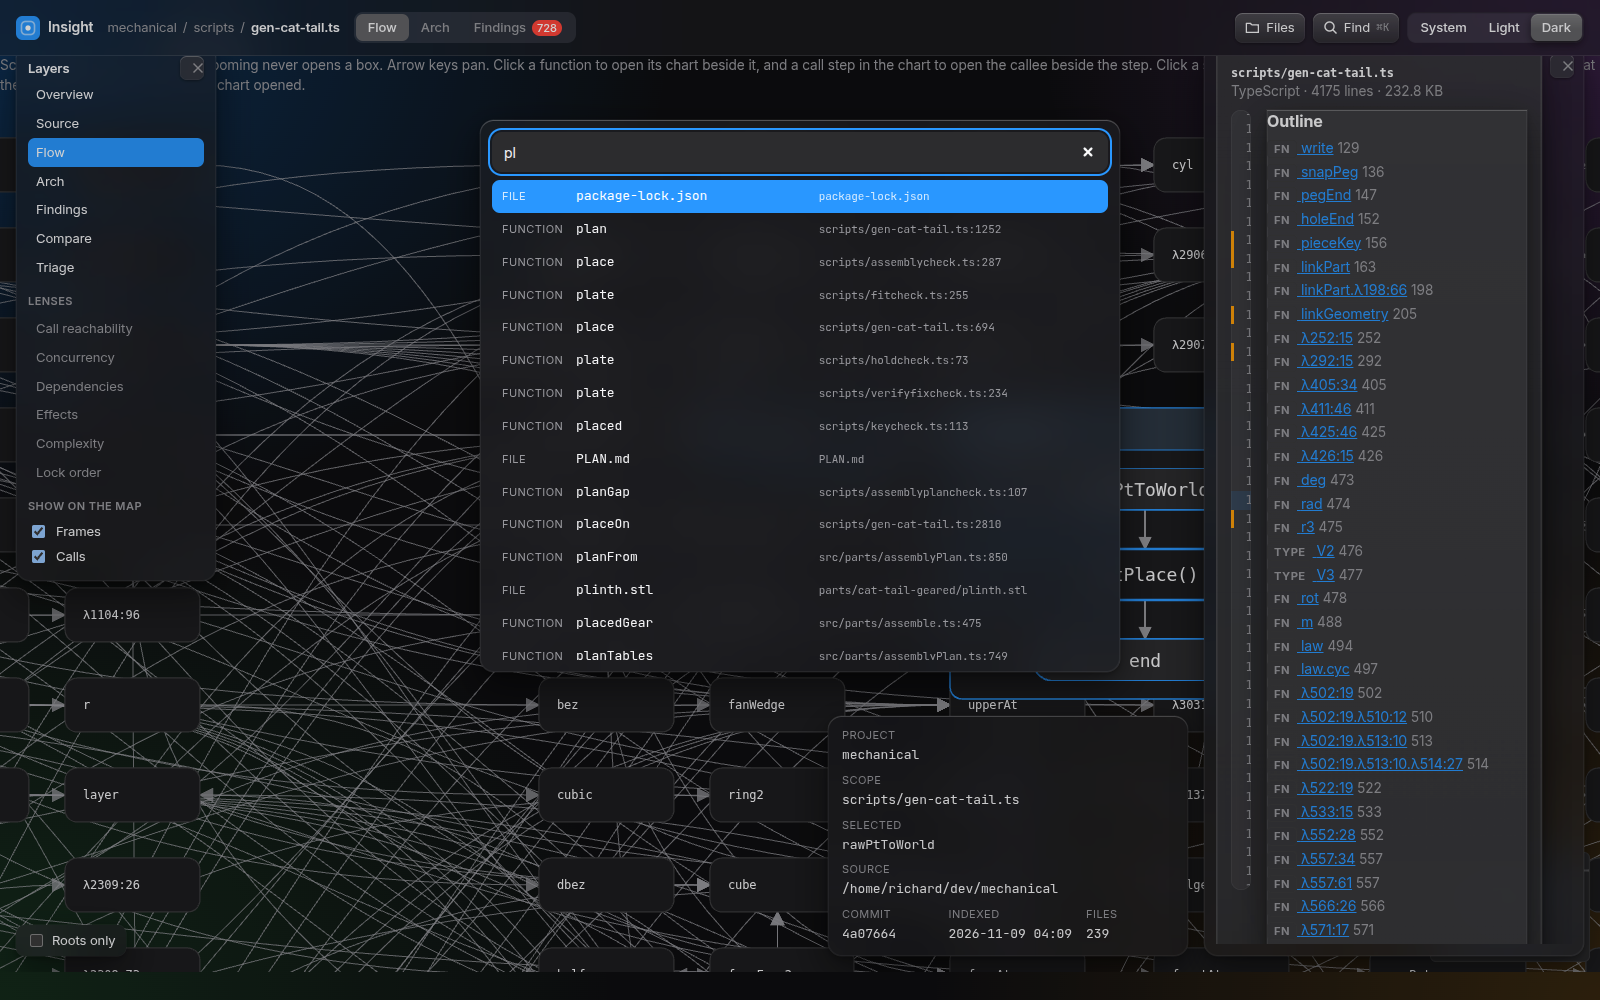
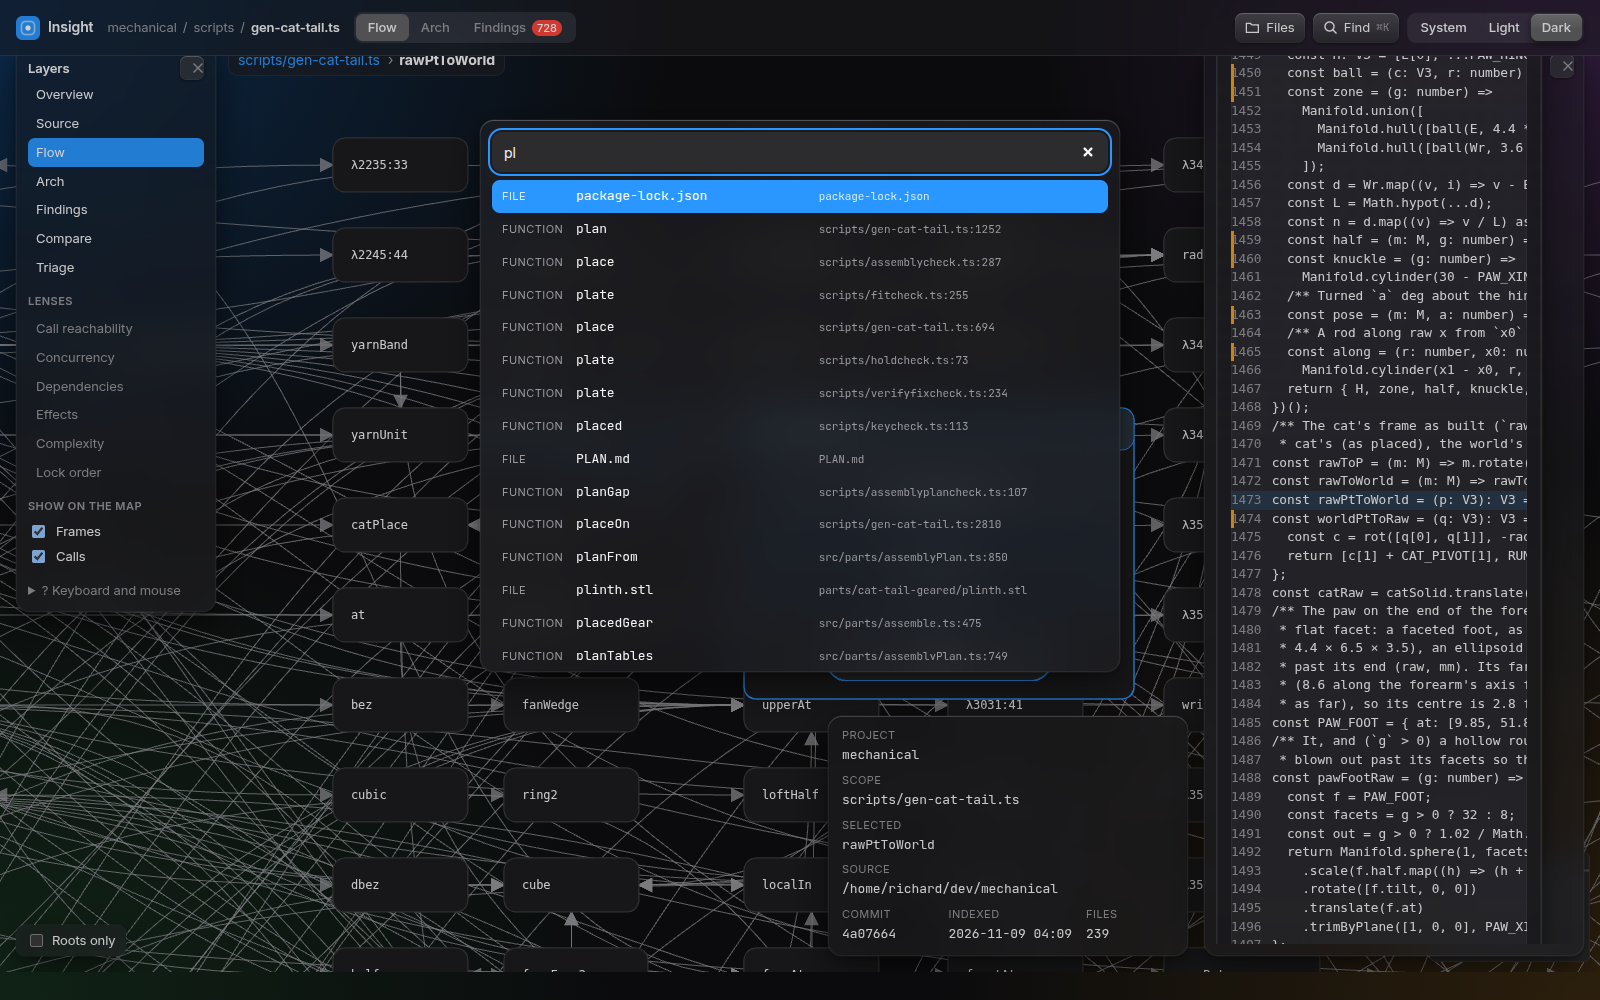
Sheet phase 2 fixes: key hints in Layers, side-panel gutter and outline, map inset
- Flow canvas no longer shows the help paragraph; the key hints move into a
  "? Keyboard and mouse" section in the Layers panel. Breadcrumb moves beside
  Layers on desktop and is hidden on phones.
- Side panel file view: gutter width follows the line-number digit count; the
  Outline is a collapsible section above the code, legible in both themes.
- ZoomMap takes an inset: while the side panel is open on wide screens, fits and
  reveals keep charts left of the panel, refitting when the panel opens.

Claude-Session: https://claude.ai/code/session_011RUAPQ22q16EWxuX6czdxj

diff --git a/apps/web/src/components/zoom/ZoomMap.tsx b/apps/web/src/components/zoom/ZoomMap.tsx
@@ -76,6 +76,10 @@ interface Props {
   onSelect?: (sel: MapSelection | undefined) => void;
   /** Reports the build the map is showing (its focus), or undefined before the first one. */
   onFocus?: (build: MapBuild | undefined) => void;
+  /** Whether the map shows its key hints under the stage. The sheet keeps them in the layers panel instead. */
+  hint?: boolean;
+  /** Room the map gives up on the right, in px, such as a side panel over the stage. Fits and reveals keep clear of it. */
+  inset?: number;
 }
 
 /** What an expansion needs to draw its chart: the project, the scope its links resolve in, and the flow store. */
@@ -102,7 +106,7 @@ interface OffMap {
  * The execution map: one camera over a scope's scene. Each node is a focus of the source; the map's items and edges
  * are named by node id, so a click or key that names a node is turned into a focus by the source first (`focusOf`).
  */
-export function ZoomMap({ id, source, scope, fn, detail, charts, onSelect, onFocus }: Props) {
+export function ZoomMap({ id, source, scope, fn, detail, charts, onSelect, onFocus, hint = true, inset = 0 }: Props) {
   /** The selection: the focus the breadcrumb, the detail panel and the URL show. Only explicit actions change it. */
   const [build, setBuild] = useState<MapBuild>();
   /** The map as drawn: the selection's build. Only a click or a key changes it; gestures move the camera alone. */
@@ -123,6 +127,8 @@ export function ZoomMap({ id, source, scope, fn, detail, charts, onSelect, onFoc
   const stageRef = useRef<HTMLDivElement>(null);
   /** The stage's size at the last resize, so a resize that changes nothing does not refit the camera. */
   const lastSizeRef = useRef<{ width: number; height: number } | undefined>(undefined);
+  /** Refits the selected focus when the usable size changed since the last refit. Set by the stage's effect. */
+  const refitRef = useRef<(() => void) | undefined>(undefined);
   const svgRef = useRef<SVGSVGElement>(null);
   const worldRef = useRef<SVGGElement>(null);
   const miniRef = useRef<SVGSVGElement>(null);
@@ -141,7 +147,12 @@ export function ZoomMap({ id, source, scope, fn, detail, charts, onSelect, onFoc
   const arrowId = `zm-arrow-${useId().replace(/[^a-zA-Z0-9]/g, "")}`;
   const hintId = useId();
 
-  const sizeOf = () => ({ width: stageRef.current?.clientWidth ?? 0, height: stageRef.current?.clientHeight ?? 0 });
+  /** The inset in use. A ref, so the size readers below see it without a new closure. */
+  const insetRef = useRef(inset);
+  const sizeOf = () => ({
+    width: Math.max(1, (stageRef.current?.clientWidth ?? 0) - insetRef.current),
+    height: stageRef.current?.clientHeight ?? 0,
+  });
   /** The stage's room above the minimap: where a fit or a reveal may put things. */
   const roomOf = () => {
     const s = sizeOf();
@@ -451,7 +462,7 @@ export function ZoomMap({ id, source, scope, fn, detail, charts, onSelect, onFoc
     // A resize that changes the stage's size refits a selected focus, so the panel opening or a window change keeps it
     // in view above the minimap. Culling alone is not enough for that.
     lastSizeRef.current = sizeOf();
-    const ro = new ResizeObserver(() => {
+    refitRef.current = () => {
       const size = sizeOf();
       const last = lastSizeRef.current;
       lastSizeRef.current = size;
@@ -464,9 +475,11 @@ export function ZoomMap({ id, source, scope, fn, detail, charts, onSelect, onFoc
         const target = fit === undefined ? undefined : newest === undefined ? fit : revealOf(fit, newest);
         if (target !== undefined) moveTo(target, false);
       }
-    });
+    };
+    const ro = new ResizeObserver(() => refitRef.current?.());
     ro.observe(stage);
     return () => {
+      refitRef.current = undefined;
       ro.disconnect();
       sel.on(".zoom", null);
       zoomRef.current = undefined;
@@ -475,6 +488,12 @@ export function ZoomMap({ id, source, scope, fn, detail, charts, onSelect, onFoc
     // The handlers read only refs and the source, so the ones from this render stay correct for the life of the effect.
     // eslint-disable-next-line react-hooks/exhaustive-deps
   }, [source, id]);
+
+  // A panel opening or closing over the stage changes the usable width without resizing it: refit as a resize would.
+  useEffect(() => {
+    insetRef.current = inset;
+    refitRef.current?.();
+  }, [inset]);
 
   // The URL drives the focus. A change this map made itself is already the focus, so it is skipped.
   useEffect(() => {
@@ -645,7 +664,7 @@ export function ZoomMap({ id, source, scope, fn, detail, charts, onSelect, onFoc
         tabIndex={0}
         role="application"
         aria-label="Execution map of the scope"
-        aria-describedby={hintId}
+        aria-describedby={hint ? hintId : undefined}
         onKeyDown={onKey}
       >
         <svg ref={svgRef} className="zm-svg" width="100%" height="100%">
@@ -754,11 +773,13 @@ export function ZoomMap({ id, source, scope, fn, detail, charts, onSelect, onFoc
           </svg>
         )}
       </div>
-      <p id={hintId} className="muted small zm-hint">
-        Scroll or press + and - to zoom; zooming never opens a box. Arrow keys pan. Click a function to open its chart beside
-        it, and a call step in the chart to open the callee beside the step. Click a step that is not a call to see its
-        source. Enter opens the item at the centre. Escape closes the last chart opened.
-      </p>
+      {hint && (
+        <p id={hintId} className="muted small zm-hint">
+          Scroll or press + and - to zoom; zooming never opens a box. Arrow keys pan. Click a function to open its chart beside
+          it, and a call step in the chart to open the callee beside the step. Click a step that is not a call to see its
+          source. Enter opens the item at the centre. Escape closes the last chart opened.
+        </p>
+      )}
       {build && detail?.(build, openNode)}
     </div>
   );

diff --git a/apps/web/src/styles.css b/apps/web/src/styles.css
@@ -161,7 +161,7 @@ table.grid td.break-any { overflow-wrap: anywhere; }
 pre.code { margin: 0; font-size: 0.8rem; overflow-x: auto; }
 pre.code > div { white-space: pre; }
 pre.code > div.hit { background: var(--code-hit); }
-pre.code .gutter { display: inline-block; width: 3.5em; color: var(--muted); text-align: right; margin-right: 0.8em; user-select: none; }
+pre.code .gutter { display: inline-block; flex: none; width: var(--gutter-ch, 4ch); color: var(--muted); text-align: right; margin-right: 0.8em; user-select: none; }
 .crumbs { margin-bottom: 4px; }
 select, textarea { font: inherit; padding: 6px 8px; border: 1px solid var(--line); border-radius: 6px; background: var(--bg); color: var(--fg); }
 textarea { min-height: 3.2em; width: 100%; box-sizing: border-box; resize: vertical; }
@@ -562,6 +562,20 @@ table.grid th { background: var(--faint); }
 .sh-side > .sh-close { position: absolute; top: 10px; right: 10px; z-index: 1; }
 .sh-side-body { flex: 1; min-height: 0; overflow: auto; padding-right: 30px; }
 .sh-side .sh-source { background: transparent; border: 0; padding: 0; margin: 0; }
+/* The outline sits above the code in the side panel as a collapsible section, never over it. */
+.sh-side .viewer-body { grid-template-columns: minmax(0, 1fr); gap: 10px; }
+.sh-side .outline { position: static; order: -1; max-height: 34vh; overflow: auto; padding: 8px 10px; border-radius: 12px; background: color-mix(in srgb, var(--graphite) 10%, transparent); }
+.sh-side .outline summary { cursor: pointer; font-size: var(--t-sm); font-weight: 600; }
+.sh-side .outline details[open] > summary { margin-bottom: 6px; }
+.sh-side .outline h3 { margin: 8px 0 4px; font-size: var(--t-xs); }
+.sh-side pre.code { color: var(--ink); }
+.sh-side .viewer-body pre.code { max-height: none; }
+.sh-side .viewer-head { margin-bottom: 6px; }
+.sh-keys { margin-top: 12px; font-size: var(--t-sm); }
+.sh-keys summary { cursor: pointer; color: var(--muted); }
+.sh-keys ul { margin: 6px 0 0; padding-left: 16px; display: grid; gap: 4px; color: var(--muted); }
+.sh-canvas .zm-crumbs { position: absolute; left: calc(var(--sh-gap) + 212px); top: var(--sh-gap); z-index: 6; padding: 6px 10px; border-radius: 10px; background: var(--glass-strong); box-shadow: var(--rim); }
+.sh-canvas .zm-crumbs ol { margin: 0; }
 .sh-slot { margin-top: 10px; }
 
 .sh-files { position: fixed; top: calc(var(--sh-top) + var(--sh-gap)); left: var(--sh-gap); bottom: var(--sh-gap); z-index: 50; width: min(360px, calc(100vw - 2 * var(--sh-gap))); display: flex; flex-direction: column; padding: 12px; }
@@ -587,6 +601,7 @@ table.grid th { background: var(--faint); }
   .sh-side.open { transform: none; }
   .sh-sheet[data-panel="open"] .sh-title { right: var(--sh-gap); }
   .sh-layers { width: 176px; }
+  .sh-canvas .zm-crumbs { display: none; }
 }
 @media (max-width: 520px) {
   :root { --sh-top: 96px; }

diff --git a/apps/web/src/components/FileViewer.tsx b/apps/web/src/components/FileViewer.tsx
@@ -1,4 +1,4 @@
-import { useEffect, useRef, useState } from "react";
+import { useEffect, useRef, useState, type CSSProperties } from "react";
 import { api, type FileView } from "../api";
 import { hrefFile } from "../router";
 import type { LineRange } from "../zoom/chart";
@@ -48,6 +48,8 @@ export function FileViewer({ id, path, line, range }: { id: string; path: string
 
   if (error) return <p className="error" role="alert">{error}</p>;
   if (!file) return <p className="muted">Loading</p>;
+  // The gutter fits the widest line number, so a 1000-line file shows all its digits.
+  const digits = String(file.lines.length).length;
   const flagged = new Map<number, string>();
   for (const f of file.findings) if (f.span) flagged.set(f.span.start[0] + 1, f.message);
   return (
@@ -61,7 +63,7 @@ export function FileViewer({ id, path, line, range }: { id: string; path: string
         </div>
       </header>
       <div className="viewer-body">
-        <pre className="code" data-testid="file-lines">
+        <pre className="code" data-testid="file-lines" style={{ "--gutter-ch": digits + 1 } as CSSProperties}>
           {file.lines.map((text, i) => {
             const n = i + 1;
             const note = flagged.get(n);
@@ -75,9 +77,10 @@ export function FileViewer({ id, path, line, range }: { id: string; path: string
         </pre>
         {(file.symbols.length > 0 || file.findings.length > 0) && (
           <aside className="outline" aria-label="Outline">
+            <details open>
+            <summary>Outline</summary>
             {file.symbols.length > 0 && (
               <>
-                <h3>Outline</h3>
                 <ul className="plain">
                   {file.symbols.map((s) => (
                     <li key={s.id}>
@@ -110,6 +113,7 @@ export function FileViewer({ id, path, line, range }: { id: string; path: string
                 </ul>
               </>
             )}
+            </details>
           </aside>
         )}
       </div>

diff --git a/apps/web/src/components/views/FlowView.tsx b/apps/web/src/components/views/FlowView.tsx
@@ -61,6 +61,9 @@ interface Props {
  * side panel shows the selected function's source and its exec panel (a function's trail, chart and call lists, or a
  * container's functions), and a file's source on the source tab. Below the sheet, a folder or project lists its files.
  */
+/** The width the side panel takes over the map, with its gap on each side. */
+const SIDE_INSET = 380 + 2 * 16;
+
 export function FlowView({ id, files, scope, fn, roots, line, layers, facts, emphasis, fileSource }: Props) {
   const store = useMemo(() => new ZoomStore(id), [id]);
   const exec = useMemo(() => new ExecStore(id, roots), [id, roots]);
@@ -82,6 +85,8 @@ export function FlowView({ id, files, scope, fn, roots, line, layers, facts, emp
   const dismissed = closed !== undefined && closed.at === at && closed.build === focus;
   const open = (fileSource || focusNested) && !dismissed;
   const selectedName = fn ? fn.slice(fn.indexOf("#") + 1) : "none";
+  // The side panel (380px) sits 16px in from the right edge with a 16px gap: on a wide screen the map keeps clear of it.
+  const inset = open && (typeof window === "undefined" || window.innerWidth > 720) ? SIDE_INSET : 0;
 
   return (
     <>
@@ -97,6 +102,8 @@ export function FlowView({ id, files, scope, fn, roots, line, layers, facts, emp
             charts={{ id, scope, store }}
             onSelect={setSel}
             onFocus={setFocus}
+            hint={false}
+            inset={inset}
             detail={(build, openNode) => {
               const view = exec.viewOf(build);
               if (view === undefined || slot === null) return null;

diff --git a/apps/web/src/components/sheet/LayersPanel.tsx b/apps/web/src/components/sheet/LayersPanel.tsx
@@ -62,6 +62,17 @@ export function LayersPanel({ links, onClose }: Props) {
       <label className="sh-check">
         <input type="checkbox" checked={calls} onChange={(e) => setCalls(e.target.checked)} /> Calls
       </label>
+      <details className="sh-keys">
+        <summary>? Keyboard and mouse</summary>
+        <ul>
+          <li>Scroll, or + and -, to zoom. Zooming never opens a box.</li>
+          <li>Arrow keys pan.</li>
+          <li>Click a function to open its chart beside it. Click a call step in the chart to open the callee beside it.</li>
+          <li>Click a step that is not a call to see its source.</li>
+          <li>Enter opens the item at the centre.</li>
+          <li>Escape closes the last chart opened.</li>
+        </ul>
+      </details>
     </section>
   );
 }
